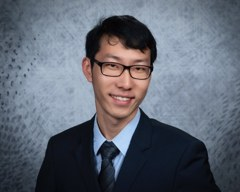
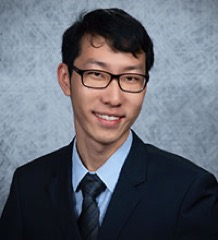
Aspect-preserving photo patterns (viewBox+slice); stroke-style focus rings for sunburst/treemap

diff --git a/index.html b/index.html
@@ -221,6 +221,9 @@
     }
   }
   #sunburstView, #treemapView { display: none; }
+  #sunburstView path:focus, #treemapView g:focus { outline: none; }
+  #sunburstView path:focus-visible { stroke: var(--ink) !important; stroke-width: 2.5; }
+  #treemapView g:focus-visible rect { stroke: var(--ink); stroke-width: 2.5; }
   #sunburstView svg, #treemapView svg { width: 100%; height: auto; display: block; }
   .sb-label {
     font-size: 10.5px; fill: var(--ink-2); pointer-events: none;
@@ -564,14 +567,17 @@ function initTree() {
   function ensurePattern(p) {
     if (!p.photo || patternsMade.has(p.id)) return;
     patternsMade.add(p.id);
+    // viewBox + slice keeps the portrait's aspect ratio no matter how the
+    // painted element is shaped (circles, wide/tall treemap tiles, ...)
     defs.append('pattern')
       .attr('id', 'pat-' + p.id)
       .attr('patternUnits', 'objectBoundingBox')
-      .attr('patternContentUnits', 'objectBoundingBox')
       .attr('width', 1).attr('height', 1)
+      .attr('viewBox', '0 0 240 240')
+      .attr('preserveAspectRatio', 'xMidYMid slice')
       .append('image')
       .attr('href', p.photo)
-      .attr('width', 1).attr('height', 1)
+      .attr('width', 240).attr('height', 240)
       .attr('preserveAspectRatio', 'xMidYMid slice');
   }
 
